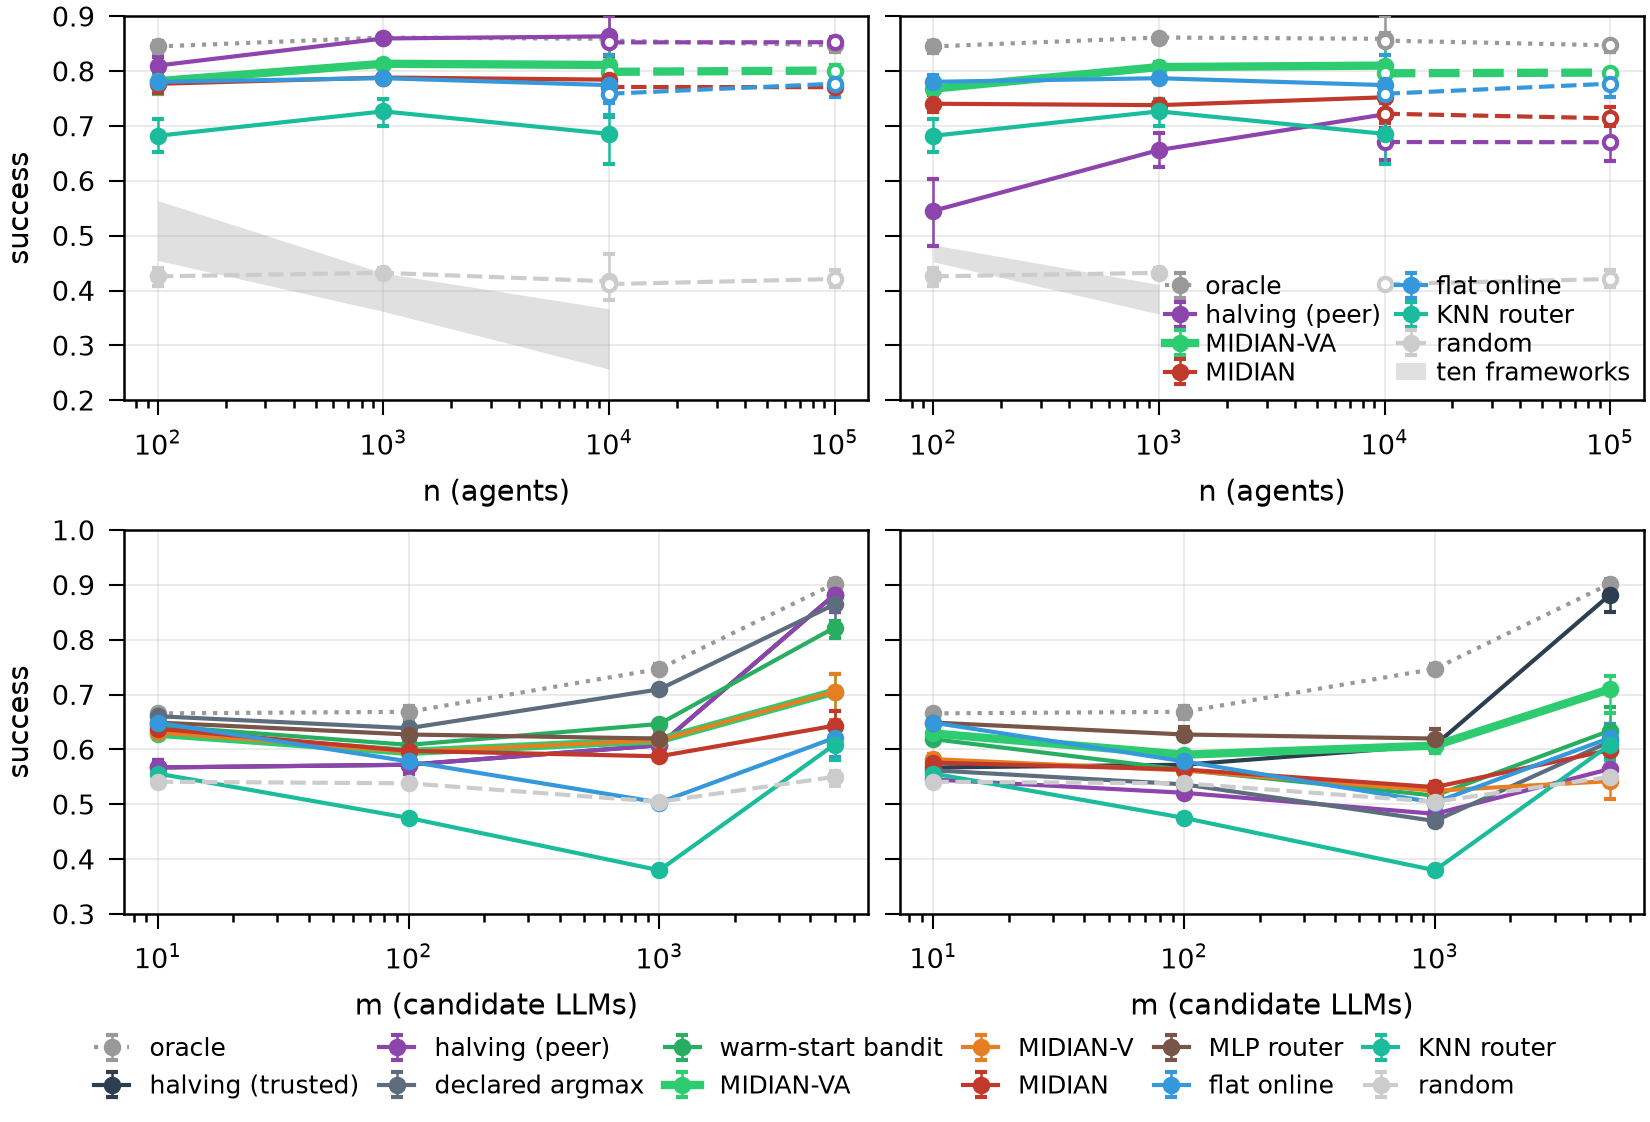
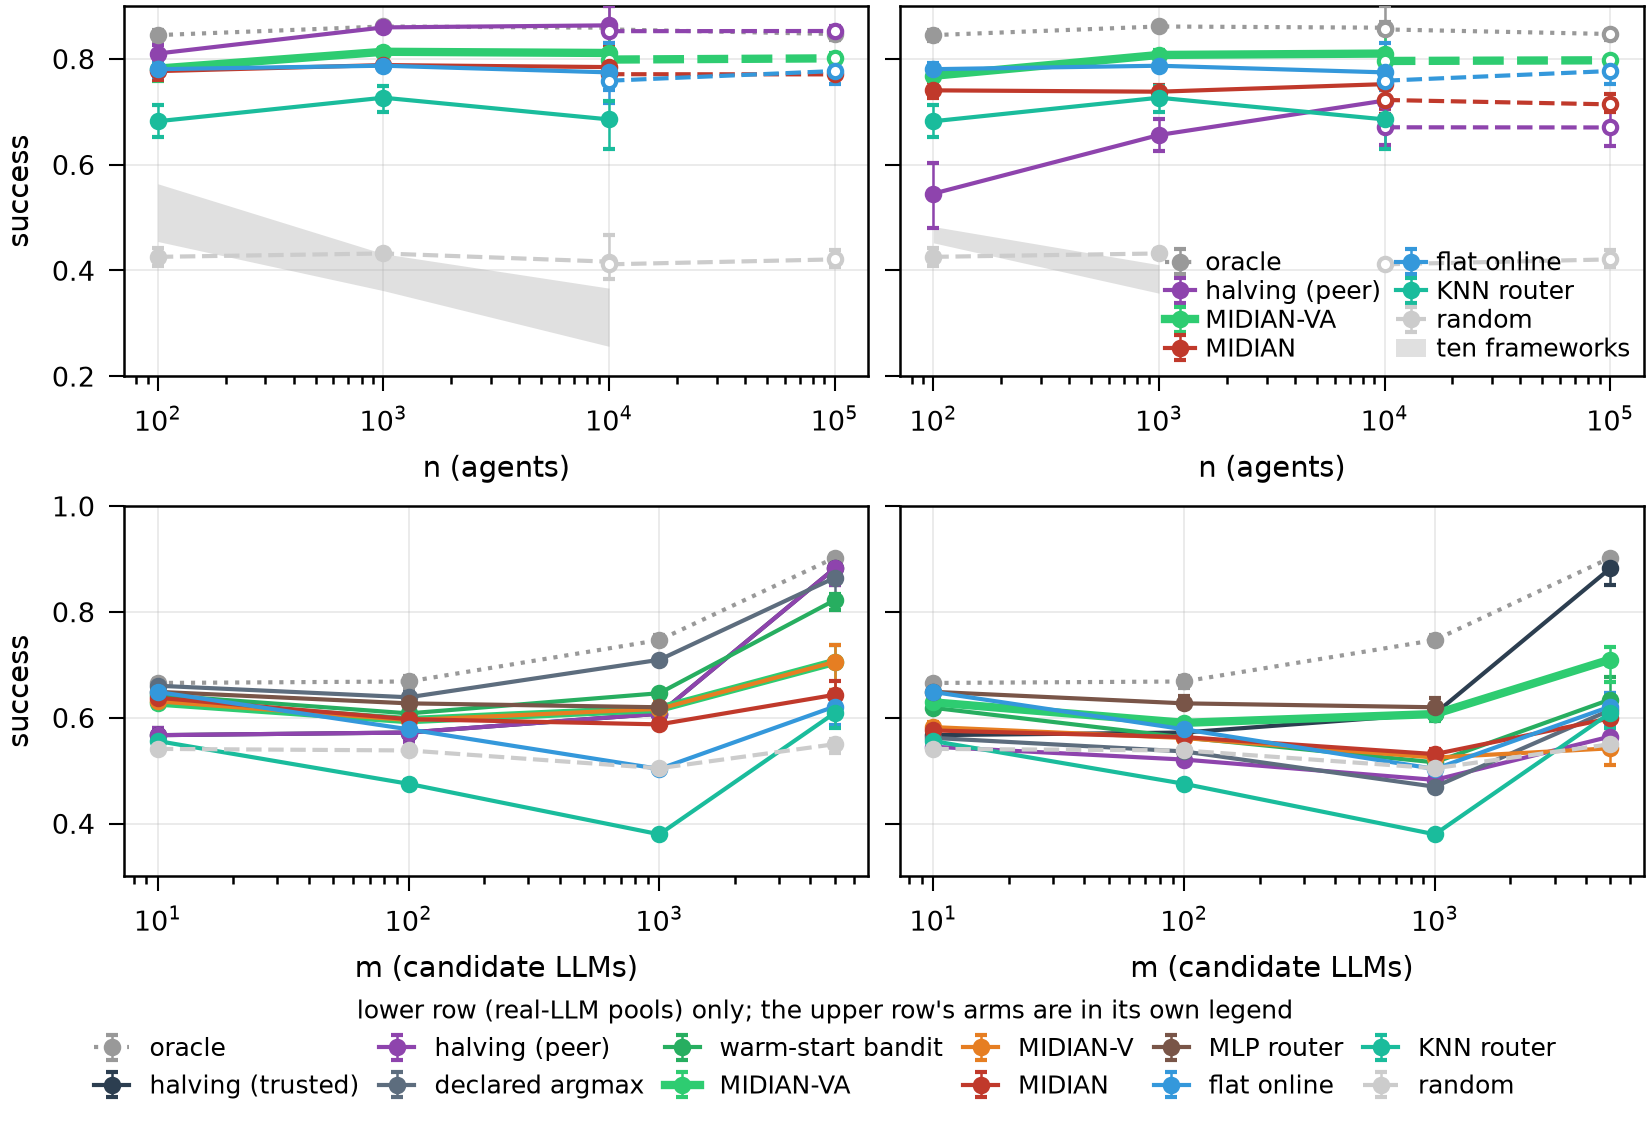
M1_full: title the shared legend so it is not read as covering the upper row, whose arms differ

diff --git a/scripts/paper_figs.py b/scripts/paper_figs.py
@@ -151,7 +151,9 @@ def M1_full():
             if xs:
                 st = dict(color=COLOR[s], lw=1.0); st.update(STYLE.get(s, {})); ax.errorbar(xs, ys, yerr=[lo, hi], marker="o", ms=3.2, capsize=1.5, elinewidth=0.6, label=SHORT[s], **st)
         ax.set_xscale("log"); ax.set_xlabel("m (candidate LLMs)"); ax.set_ylim(0.3, 1.0); ax.grid(alpha=.3, lw=0.4)
-    h, l = axes[1][0].get_legend_handles_labels(); fig.legend(h, l, loc="outside lower center", ncol=6, fontsize=6.0, frameon=False, handlelength=1.4, columnspacing=0.8)
+    h, l = axes[1][0].get_legend_handles_labels()                 # the lower row carries arms the upper row does not: title the legend so it is not read as global
+    fig.legend(h, l, loc="outside lower center", ncol=6, fontsize=6.0, frameon=False, handlelength=1.4, columnspacing=0.8,
+               title="lower row (real-LLM pools) only; the upper row's arms are in its own legend", title_fontsize=6.0)
     axes[0][0].set_ylabel("success"); axes[1][0].set_ylabel("success"); csv("M1_success_vs_n_full", recs); save(fig, "M1_success_vs_n_full")
 
 
